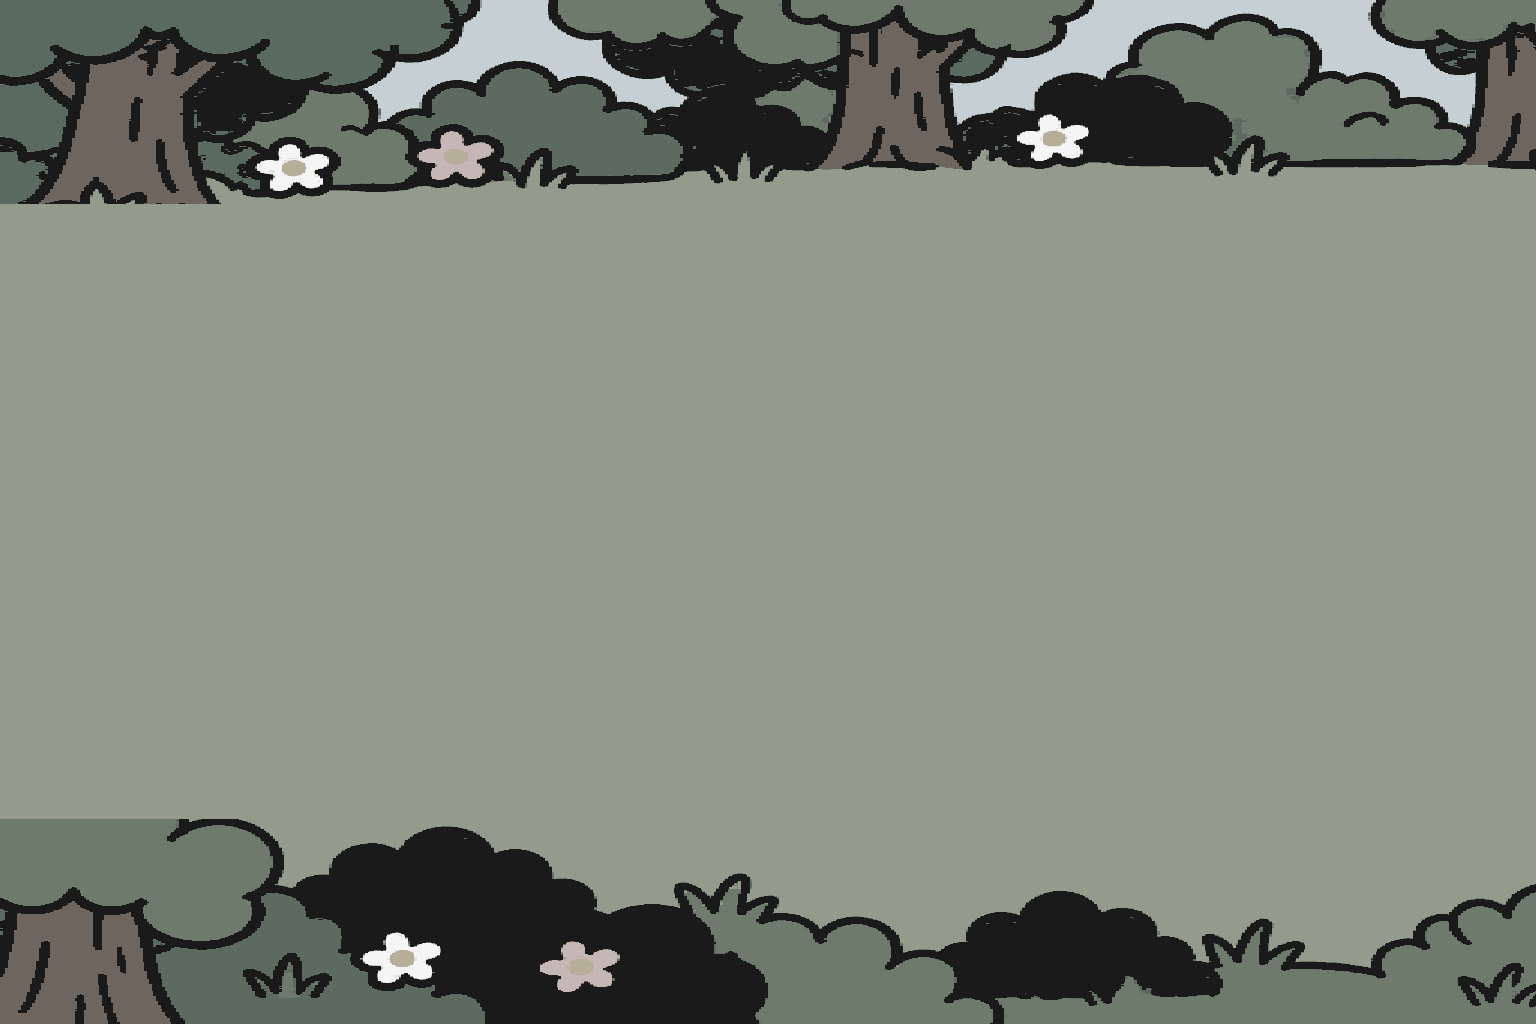
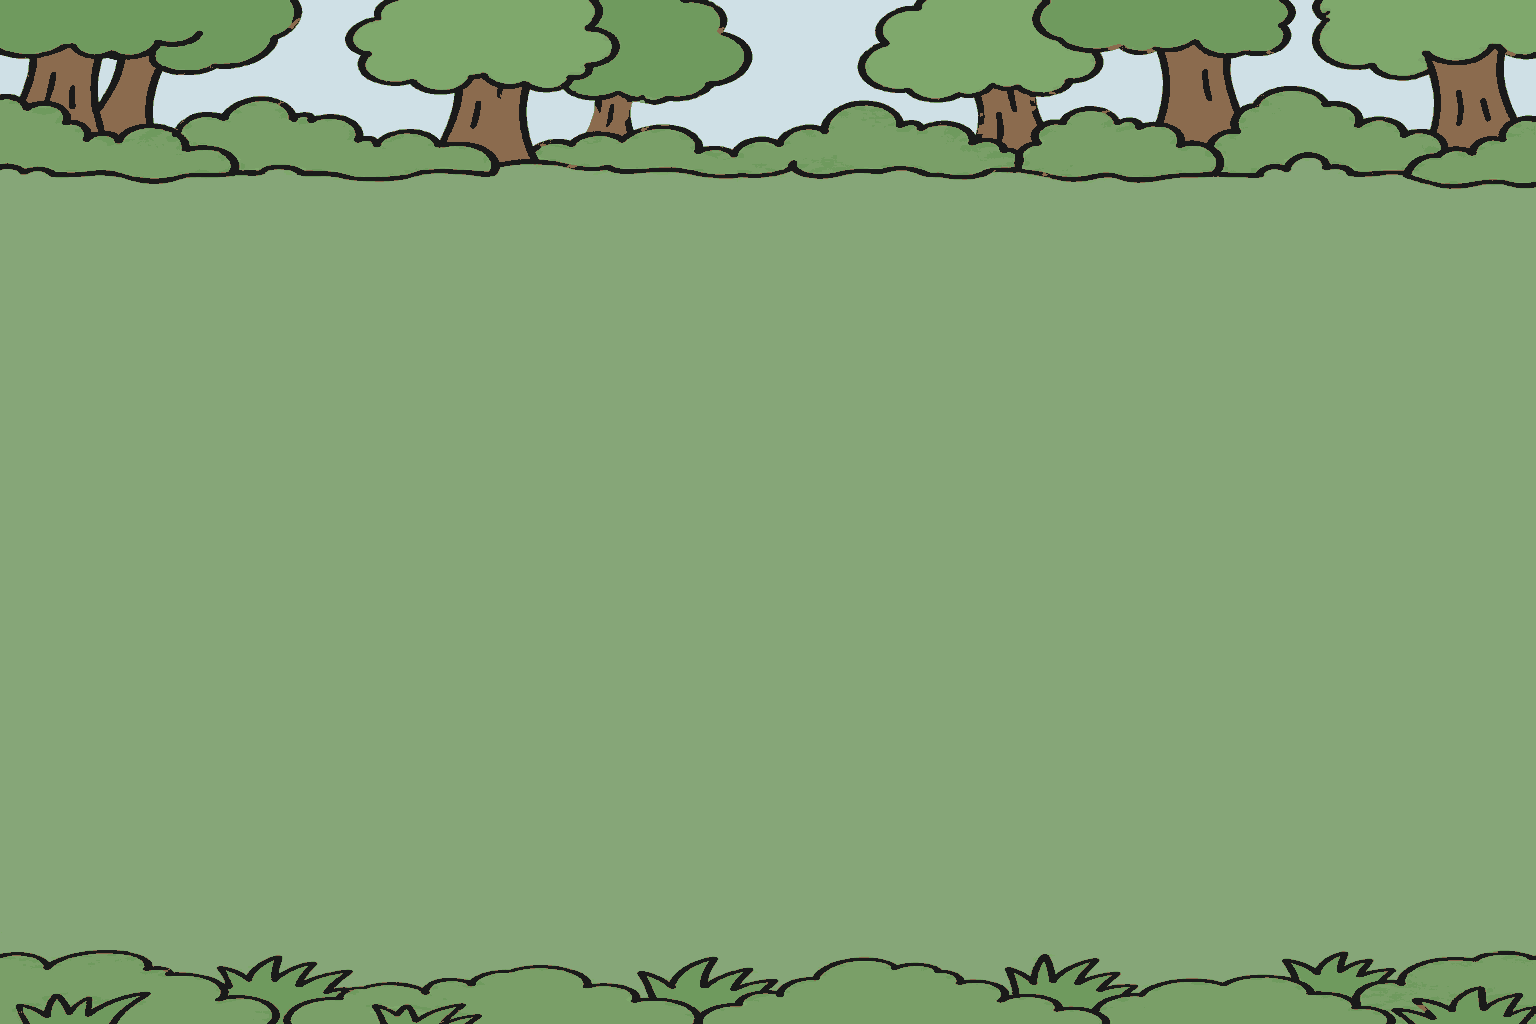
art: regenerate the forest backdrop

diff --git a/client/src/zoo/backdrops.ts b/client/src/zoo/backdrops.ts
@@ -171,8 +171,8 @@ export const ADVENTURE_BACKDROP: Partial<Record<AdventureId, AdventureBackdrop>>
   },
   night: {
     art: SECTOR_BACKGROUND_ART.night,
-    quiet: '#394459',
-    brightest: '#526084',
+    quiet: '#3b4c5b',
+    brightest: '#506186',
     corridorRows: { top: 51, bottom: 973 },
     tile: NIGHT_VEIL,
     ink: TORCH_CHALK,
@@ -207,8 +207,8 @@ export const ADVENTURE_BACKDROP: Partial<Record<AdventureId, AdventureBackdrop>>
   // (`artManifest.test.ts` guards the parity).
   bee: {
     art: SECTOR_BACKGROUND_ART.forest,
-    quiet: '#949b8c',
-    brightest: '#949b8c',
+    quiet: '#86a678',
+    brightest: '#86a678',
     corridorRows: { top: 191, bottom: 926 },
   },
   // The hedgehog adventure (`radial-spines` design.md §8.2): paints on the
@@ -221,8 +221,8 @@ export const ADVENTURE_BACKDROP: Partial<Record<AdventureId, AdventureBackdrop>>
   // one law over one backdrop, asserted once (design.md §2 D4, docs/09 §4).
   hedgehog: {
     art: SECTOR_BACKGROUND_ART.night,
-    quiet: '#394459',
-    brightest: '#526084',
+    quiet: '#3b4c5b',
+    brightest: '#506186',
     corridorRows: { top: 51, bottom: 973 },
     ink: TORCH_CHALK,
     inkDim: TORCH_CHALK_DIM,

diff --git a/client/src/detective/artManifest.test.ts b/client/src/detective/artManifest.test.ts
@@ -341,8 +341,8 @@ describe('art registry matches the shipped pipeline manifest', () => {
     expect(forest.corridorRows).toEqual({ top: 191, bottom: 926 })
     // The band is flat over this range: quiet and brightest are the SAME
     // colour (design.md §3.1's own prediction, confirmed by the rebuild).
-    expect(forest.quiet).toBe('#949b8c')
-    expect(forest.brightest).toBe('#949b8c')
+    expect(forest.quiet).toBe('#86a678')
+    expect(forest.brightest).toBe('#86a678')
   })
 
   it("gives the flower's two states IDENTICAL w/h (free-trail-waypoints design.md §3.2) — both derive from flor.png", () => {

diff --git a/client/src/zoo/backdrops.test.ts b/client/src/zoo/backdrops.test.ts
@@ -457,8 +457,8 @@ describe('SPINE_BACKDROPS ink law (radial-spines design.md §2 D1(a)/D4, §8.2)'
     const vsBrightest = Math.abs(luma(TORCH_CHALK) - luma(hedgehog.brightest))
     expect(vsQuiet).toBeGreaterThanOrEqual(55)
     expect(vsBrightest).toBeGreaterThanOrEqual(55)
-    expect(vsQuiet).toBeCloseTo(171.9, 0)
-    expect(vsBrightest).toBeCloseTo(143.1, 0)
+    expect(vsQuiet).toBeCloseTo(166.2, 0)
+    expect(vsBrightest).toBeCloseTo(142.7, 0)
   })
 
   it('the unfilled mark (TORCH_CHALK_DIM) clears the night band too — brightest by only 0.8, recorded as a risk', () => {

diff --git a/client/src/detective/artHierarchy.test.ts b/client/src/detective/artHierarchy.test.ts
@@ -355,7 +355,7 @@ const SECTOR_QUIET_BAND_BASE: Readonly<Record<string, readonly [number, number, 
   'fondo arena.png': [214, 203, 186],
   'fondo ladera.png': [157, 163, 150],
   'fondo cordillera.png': [200, 211, 216],
-  'fondo bosque.png': [148, 155, 140],
+  'fondo bosque.png': [134, 166, 120],
   'fondo pecera.png': [155, 182, 197],
 }
 
